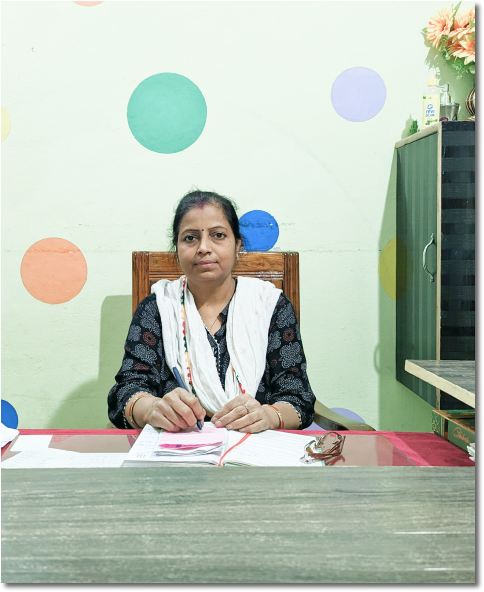
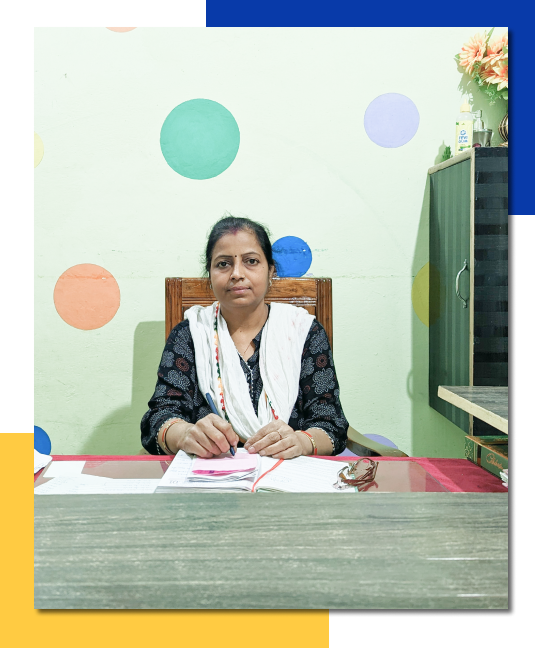
About Page

diff --git a/src/components/About/Faculty.css b/src/components/About/Faculty.css
@@ -1,0 +1,43 @@
+@import url('https://fonts.googleapis.com/css2?family=Lato:ital,wght@0,400;0,700;1,300;1,400&family=Montserrat:ital,wght@0,200;0,300;0,400;0,500;1,300;1,400&family=Oswald:wght@200;300;400&family=Poppins:ital,wght@0,200;0,300;1,400;1,600&display=swap');
+@import url('https://fonts.googleapis.com/css2?family=Montagu+Slab:opsz,wght@16..144,300;16..144,400;16..144,600;16..144,700&display=swap');
+
+
+.faculty{
+    height: 800px;
+    display: flex;
+    align-items: center;
+    justify-content: center;
+    font-family: 'Montagu Slab', serif;
+    background-color: white;
+}
+
+.faculty .teacher-text{
+    /* height:574px ; */
+    width: 350px;
+    text-align: center;
+    position: relative;
+    z-index: 0;
+left:6rem;
+    font-size:20px ;
+    font-weight:400 ;
+    padding: 10rem 5rem;
+    box-shadow: 8px 8px 13px -8px rgba(0,0,0,0.3),
+0px 15px 12px 0px rgba(0,0,0,0.22);
+}
+.teacher-text .know-more{
+   margin-top: 5rem;
+   padding: 10px;
+   border: none;
+   background-color: #FFCB42;
+   box-shadow: 8px 8px 13px -8px rgba(0,0,0,0.3),
+   0px 15px 12px 0px rgba(0,0,0,0.22);
+}
+.faculty .teacher-img img{
+width: 754px;
+height: 585px;
+/* padding: 20px; */
+border: 10px solid #083ba996;
+position: relative;
+
+}
+/* .faculty .teacher-text .know-more */

diff --git a/src/components/About/PrincipalM.css b/src/components/About/PrincipalM.css
@@ -6,22 +6,22 @@
   position: relative;
   padding: 2rem 0;
   height: 1000px;
+  display: flex;
 }
 
-.heading {
-  font-size: 40px;
+.heading {    
+  font-size: 48px;
   font-family: 'Montagu Slab';
-  text-align: center;
-  margin-bottom:5rem;
-  font-weight: 500;
+  text-orientation: upright;
+  writing-mode:vertical-lr;
+  font-weight: 500; 
   color: #FFCB42;
-  /* background-color: bisque; */
+
 }
 .parah {
-  float: right;
   position: absolute;
   text-align: center;
-  padding: 30px ;
+  padding: 5rem 2rem 40px 10rem ;
   top: 10rem;
   right: 10rem;
   width: 500px;
@@ -32,7 +32,13 @@
   font-weight: 500;
   background-color: #FFCB42;
 }
-img {
+.principal-image {
   margin-left: 10rem;
-  background-color: beige;
+  position: relative;
+  right:  8rem;
+  top: 12rem;
+  width: 500px;
+  height: 600px;
+
+  
 }

diff --git a/src/components/About/Faculty.js b/src/components/About/Faculty.js
@@ -1,0 +1,23 @@
+import React from "react";
+import "./Faculty.css";
+import teachers from "../../assets/teachers.png";
+
+const Faculty = () => {
+  return (
+    <div className="faculty">
+      <div className="teacher-text">
+        <p>
+          Lorem Ipsum is simply dummy text of the printing and typesetting
+          industry. Lorem Ipsum has been the induer.
+        </p>
+        <button className="know-more">Know More</button>
+      </div>
+      <div className="teacher-img">
+      <img src={teachers} alt="" />
+      </div>
+      
+    </div>
+  );
+};
+
+export default Faculty;

diff --git a/src/components/About/PrinciplalM.js b/src/components/About/PrinciplalM.js
@@ -1,6 +1,6 @@
 import React from "react";
 import "./PrincipalM.css";
-import principlephoto from '../../assets/Rectangle 3.png'
+import principlephoto from '../../assets/Group 10.png'
 const PrinciplalM = () => {
   return (
     <div className="message">
@@ -15,7 +15,7 @@ const PrinciplalM = () => {
         essentially unchanged.It was popularised in the 1960s .
       </p>
      
-    <img src={principlephoto} alt="" />
+    <img className="principal-image" src={principlephoto} alt="" />
    
  
 

diff --git a/src/pages/About.js b/src/pages/About.js
@@ -6,6 +6,7 @@ import Navbar from "../components/Contact/Navbar";
 import AboutPage from '../components/About/AboutPage';
 import DivineWelcome from '../components/About/DivineWelcome';
 import PrinciplalM from '../components/About/PrinciplalM';
+import Faculty from '../components/About/Faculty';
 
 const About = () => {
   return (
@@ -15,6 +16,7 @@ const About = () => {
  <AboutPage/>
  <DivineWelcome/>
  <PrinciplalM/>
+ <Faculty/>
  <Footer/>
     </div>
   )

diff --git a/src/pages/Academics.js b/src/pages/Academics.js
@@ -1,8 +1,13 @@
 import React from 'react'
-
+import Footer from '../components/Contact/Navbar'
+import Navbar from "../components/Contact/Navbar";
+import AboutPage from '../components/About/AboutPage';
 const Academics = () => {
   return (
-    <div>Academics</div>
+    <div className="academics">
+      <Navbar/>
+      <AboutPage/>
+      <Footer/>   </div>
   )
 }
 

diff --git a/src/components/Home/Footer.css b/src/components/Home/Footer.css
@@ -1,7 +1,7 @@
 @import url('https://fonts.googleapis.com/css2?family=Montagu+Slab:opsz,wght@16..144,300;16..144,400;16..144,600;16..144,700&family=Open-Sans:wght@300&display=swap');
 
 #footer{
-    height: 500px;
+    height: auto;
     background: white url(../../assets//Group\ 28.png) no-repeat  center;
     /* background-size:auto; */
 }

diff --git a/src/pages/Information.js b/src/pages/Information.js
@@ -2,7 +2,10 @@ import React from 'react'
 
 const Information = () => {
   return (
-    <div>Information</div>
+    <div className="academics">
+    <Navbar/>
+    <AboutPage/>
+    <Footer/>   </div>
   )
 }
 

diff --git a/src/pages/Activities.js b/src/pages/Activities.js
@@ -2,7 +2,10 @@ import React from 'react'
 
 const Activities = () => {
   return (
-    <div>Activities</div>
+    <div className="academics">
+    <Navbar/>
+    <AboutPage/>
+    <Footer/>   </div>
   )
 }
 

diff --git a/src/pages/Admission.js b/src/pages/Admission.js
@@ -2,7 +2,11 @@ import React from 'react'
 
 const Admission = () => {
   return (
-    <div>Admission</div>
+    <div className="academics">
+    <Navbar/>
+    <AboutPage/>
+    <Footer/>   </div>
+
   )
 }
 

diff --git a/src/index.css b/src/index.css
@@ -9,7 +9,7 @@
   html,
   body{
     scroll-behavior: smooth;
-  
+  background-color: rgb(73, 67, 67);
     margin: 0;padding: 0;box-sizing: border-box;
   }
 /* @media only screen and (max-width:1440px){

diff --git a/src/pages/About.css b/src/pages/About.css
@@ -1,6 +1,7 @@
 
 
 .about{
+    background-color: white;
     padding: 0;
     margin: auto;
    max-width: 1440px;
